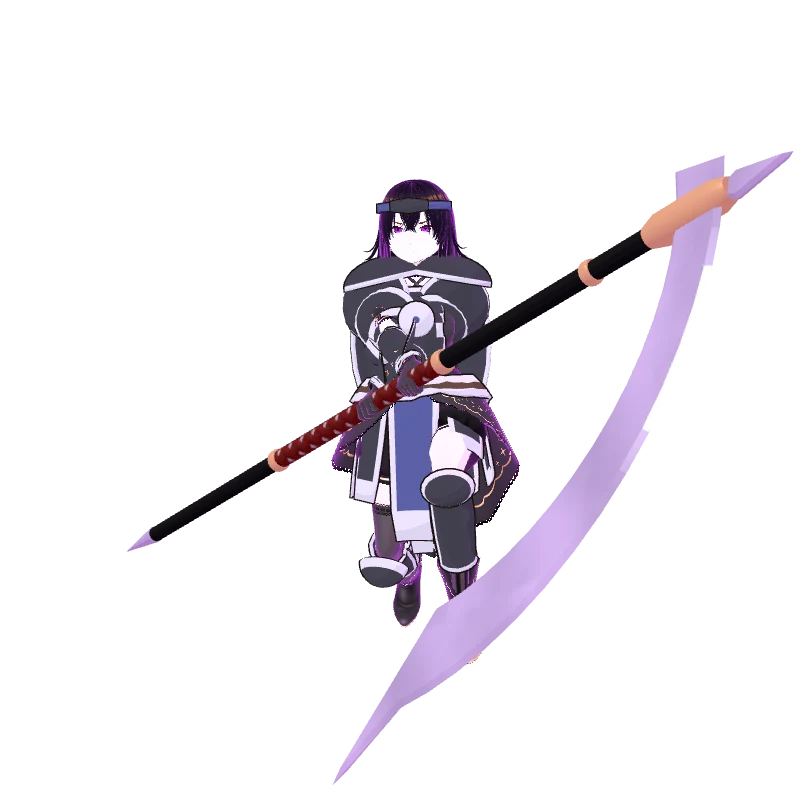
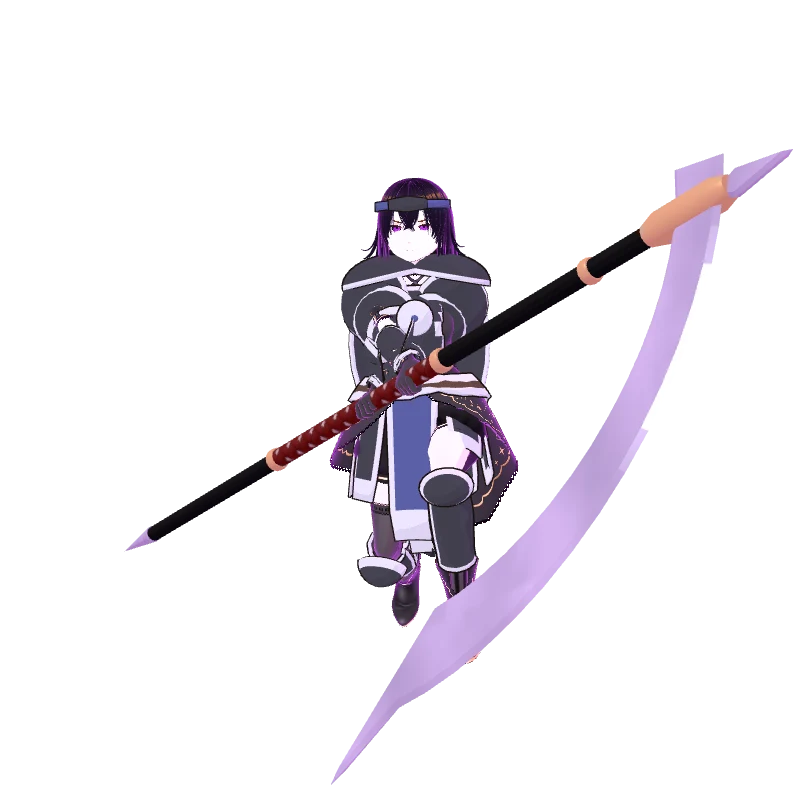
決めポーズ: ガンドウは左腕を前・右腕を後ろに、フウカは扇を左右に広げる翼の構えに (v1.17.7)

diff --git a/src/poses.js b/src/poses.js
@@ -7,8 +7,8 @@ export const HERO_POSES = {
   reiga: { p: { az: 15, el: 5, bend: 110, wr: -140, azL: 80, elL: 5, bendL: 10, tw: 0, lean: 5, crouch: 0.6, stance: 0, head: 0, wide: 0.5 }, cam: { yaw: -8, pitch: -6 } },
   setsuna: { cand: 0, cam: { yaw: -30, pitch: -10 } },
   raika: { p: { az: 15, el: -15, bend: 85, wr: 80, azL: 25, elL: 105, bendL: 70, wrL: 135, tw: 20, lean: 20, crouch: 0.4, stance: 1.0, head: -20 }, cam: { yaw: -65, pitch: -8 } },
-  gandou: { p: { az: -170, el: 55, bend: 120, wr: 40, tw: -25, lean: 10, crouch: 0.5, stance: 0, wide: 0.45, head: 30 }, cam: { yaw: -20, pitch: -10 } },
-  fuuka: { p: { az: -35, el: 115, bend: 140, wr: 0, roll: 90, azL: -60, elL: 0, bendL: 60, wrL: -90, rollL: 90, tw: 10, lean: 0, crouch: 0.05, stance: 0.3, side: 6, head: -10 }, cam: { yaw: -10, pitch: -6 } },
+  gandou: { p: { az: -150, el: 40, bend: 150, wr: 40, tw: -15, lean: 10, crouch: 0.5, stance: 0, wide: 0.45, head: 0 }, cam: { yaw: -20, pitch: -10 } },
+  fuuka: { p: { az: -70, el: 55, bend: 25, wr: 0, roll: 90, azL: 75, elL: -15, bendL: 25, wrL: 0, rollL: 90, tw: 0, lean: 0, crouch: 0.05, stance: 0.3, side: 6, head: 0 }, cam: { yaw: -10, pitch: -6 } },
   yomi: { cand: 1, cam: { yaw: 15, pitch: -10 } },
   zenova: { cand: 1, cam: { yaw: 15, pitch: -14 } },
 };

diff --git a/sw.js b/sw.js
@@ -1,6 +1,6 @@
 // サービスワーカー: 全ファイルをキャッシュしてオフラインでも遊べるようにする
 // ※ ゲームを更新したら CACHE の番号を上げてください(古いキャッシュが破棄されます)
-const CACHE = 'seiga-v1.17.6';
+const CACHE = 'seiga-v1.17.7';
 const FILES = [
   './', 'index.html', 'manifest.webmanifest', 'css/style.css', 'vendor/three.module.min.js',
   'icons/icon-192.png', 'icons/icon-512.png', 'icons/icon-maskable-512.png', 'icons/apple-touch-icon.png',

diff --git a/src/config.js b/src/config.js
@@ -4,7 +4,7 @@
 // 空のままでも、ゲーム内「設定」画面から個別にURLを入力できます。
 export const CLOUD_URL = 'https://script.google.com/macros/s/AKfycbwIXAdAaQbAvjuTPs3f40_3I8KxJB3mKbrFkAzfM-IuFDj_kmxqeDuisBGuqbjSZOJp1Q/exec';
 
-export const VERSION = '1.17.6';
+export const VERSION = '1.17.7';
 
 // VRoid のキャラ(VRM)。ファイルを vrm/ フォルダに入れ、武将ID: パス を書くと差し替わります
 // 武将ID: reiga / setsuna / raika / gandou / fuuka / yomi
